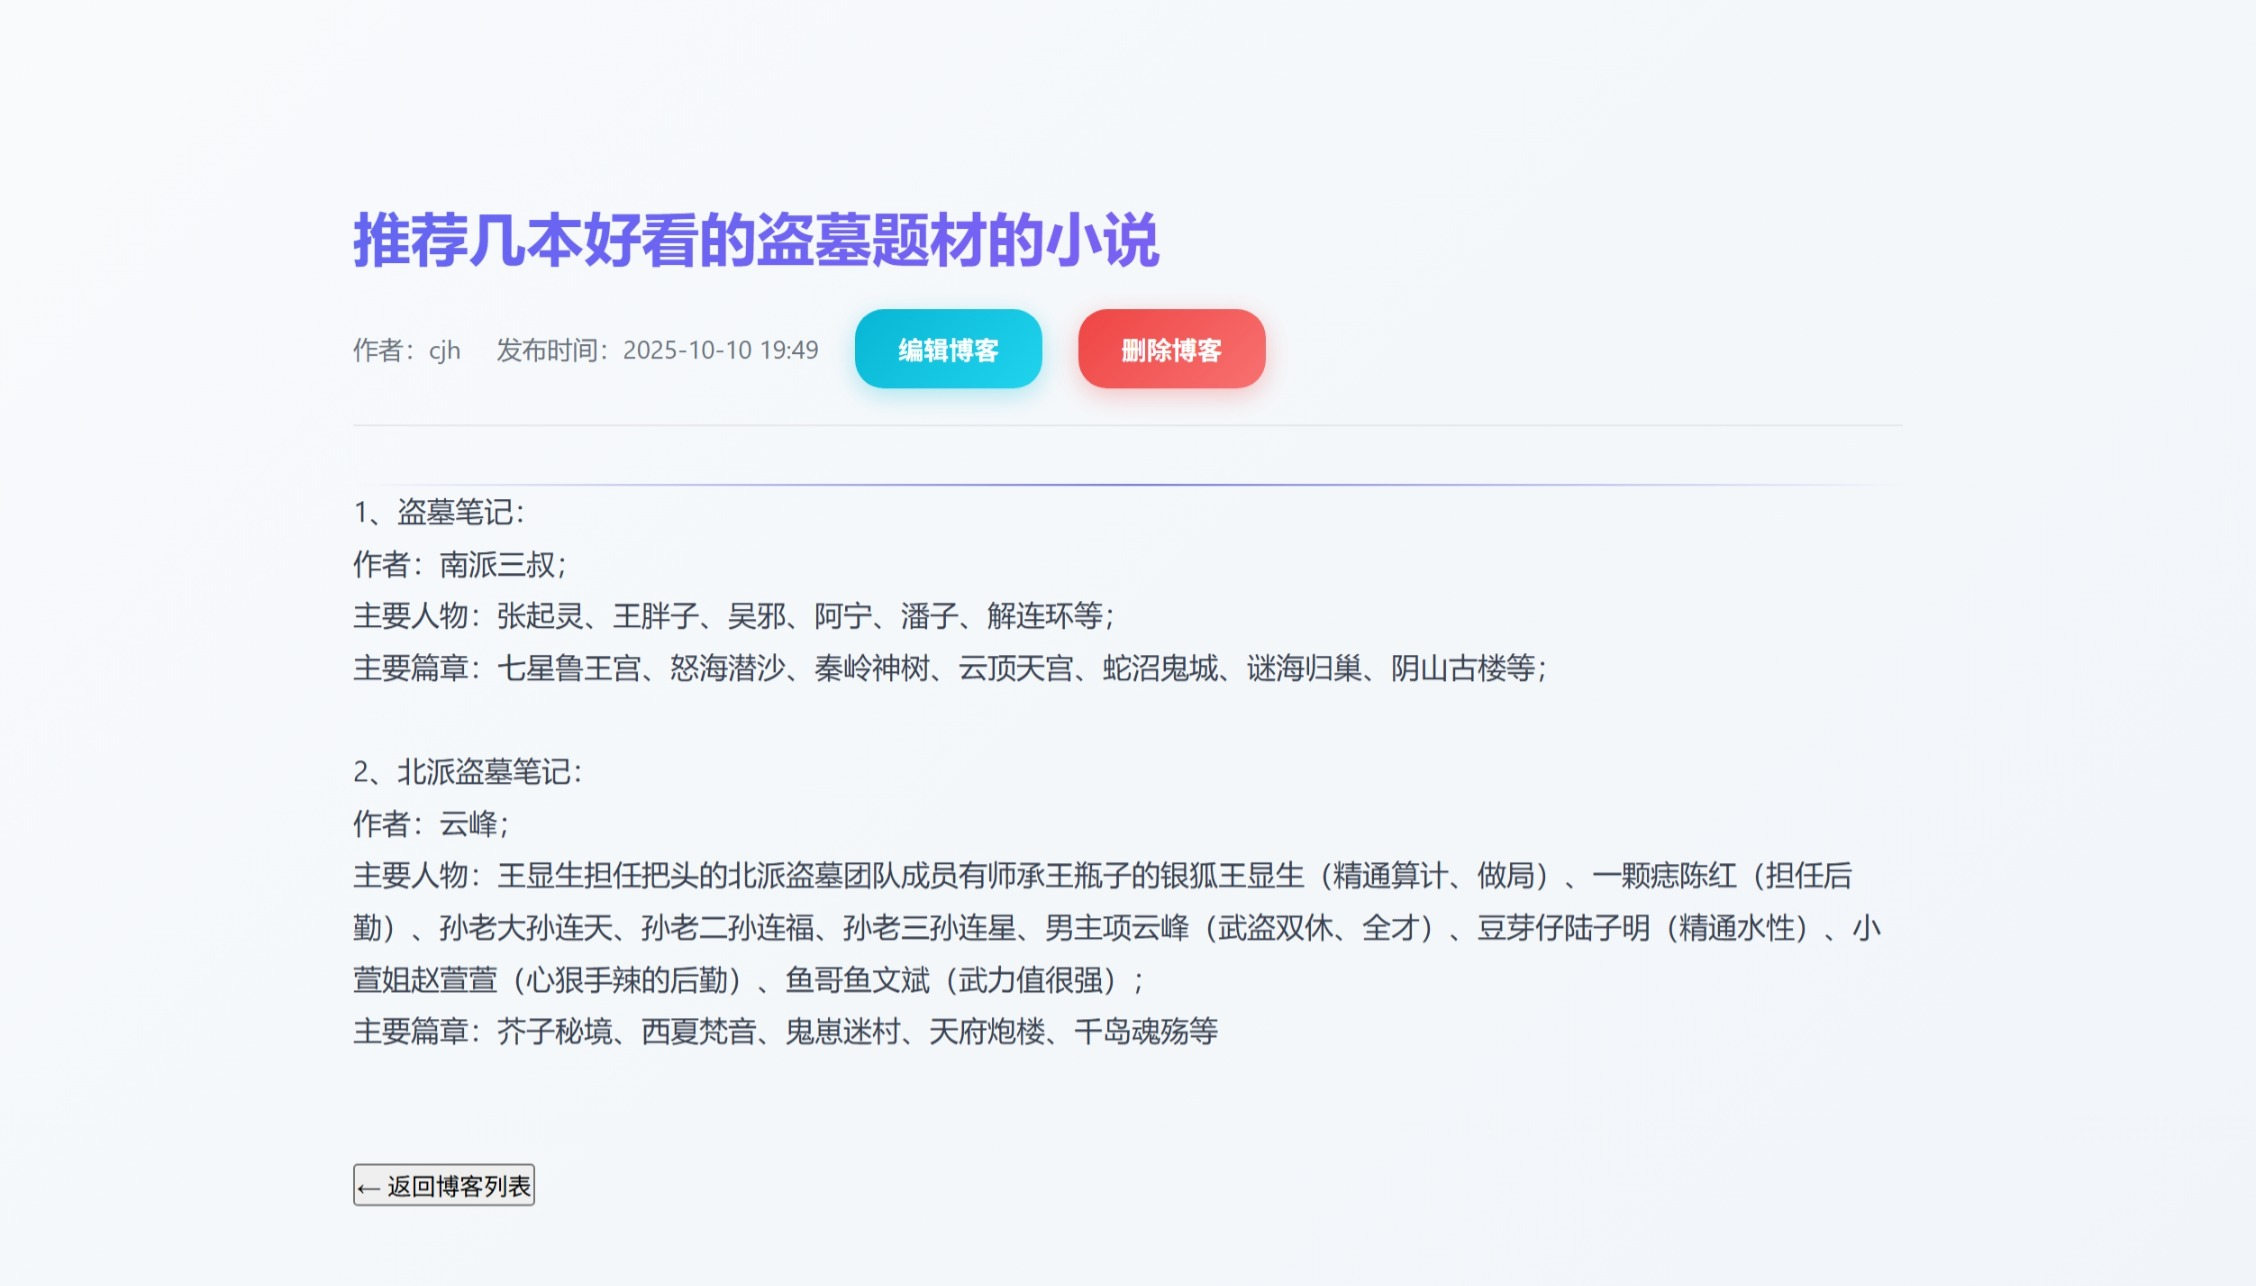
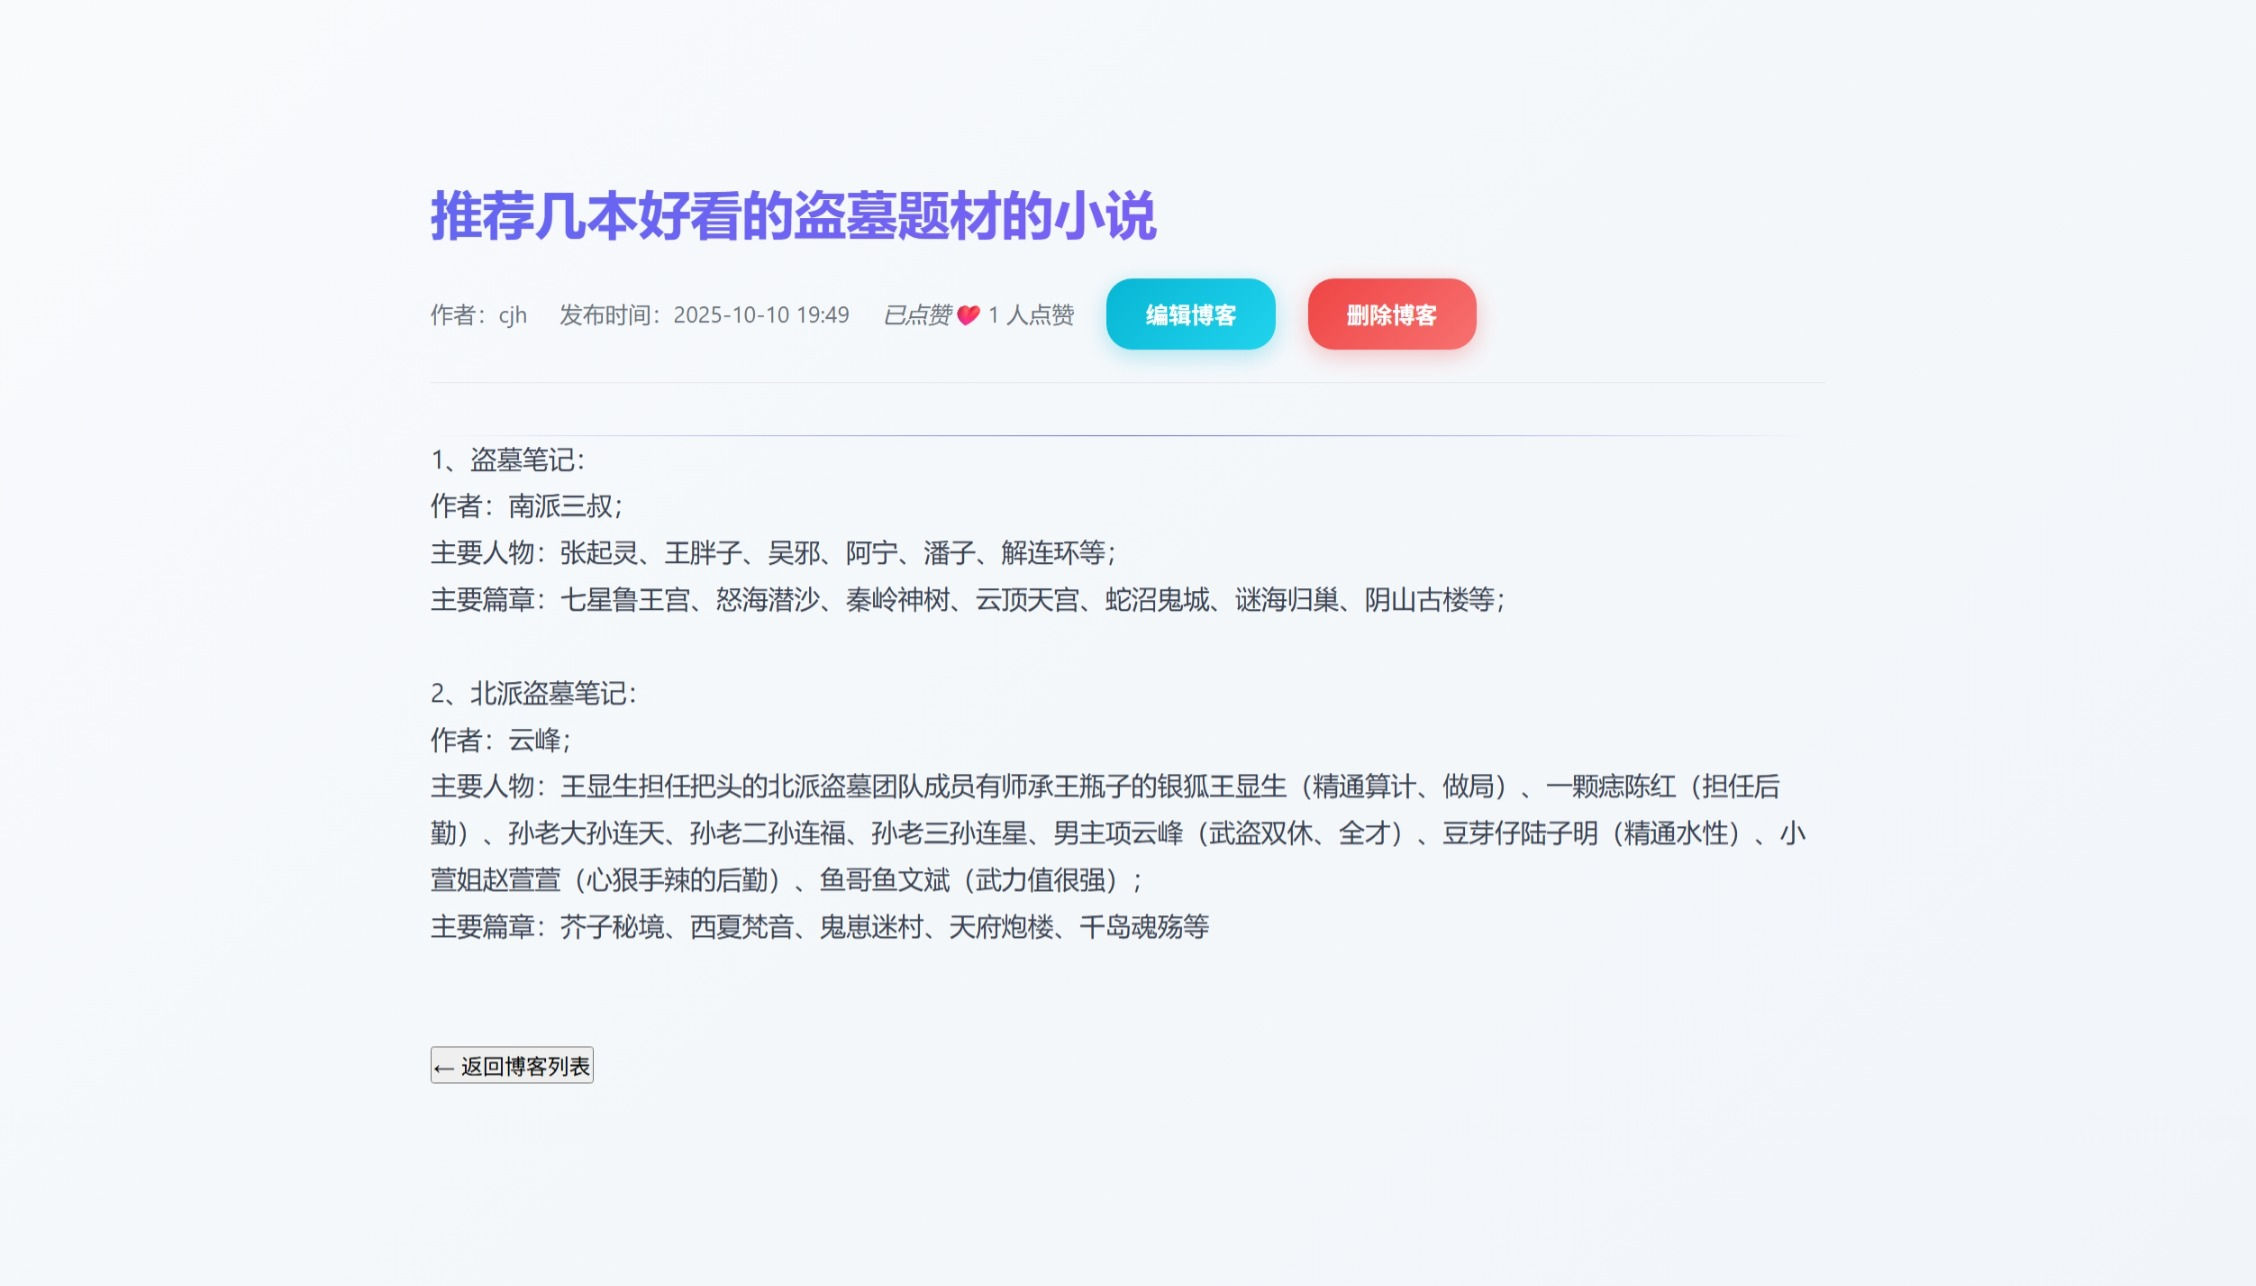
change some show pictures and md

Changed region(s): [[0.1551, 0.3421, 0.8378, 0.8398], [0.1551, 0.1244, 0.6516, 0.311], [0.1551, 0.902, 0.2482, 0.9331]]

diff --git a/show/Development_Log.md b/show/Development_Log.md
@@ -1,0 +1,129 @@
+## 开发日志
+
+### 第一阶段 --2025.9.22
+
+完成了后端基础服务：
+
+- 后端能连接 MongoDB 数据库，存储博客数据；
+- 提供了第一个可用接口 GET /api/blogs，能返回博客列表；
+- 项目结构模块化（路由、模型、配置分开），后续扩展方便（比如加 “创建博客”“删除博客” 接口）。
+
+### 第二阶段 --2025.9.22
+
+搭建前端基础框架：用 Vite 创建 Vue 3 项目，配置了路由，创建了 “博客列表页”，能正常启动并显示静态内容。
+
+### 第三阶段 --2025.9.22
+
+成功实现了 “前端对接后端接口” 的核心功能：
+
+- **封装 Axios**：统一处理请求基础地址、错误，后续接口调用更简洁；
+- **调用接口**：在组件中用异步函数获取后端 GET /api/blogs 数据，处理加载 / 错误状态；
+- **渲染数据**：把接口返回的 JSON 数据转成用户易懂的页面，支持日期格式化、内容截取、hover 动画等细节优化。
+
+### 第四阶段 --2025.9.22
+
+实现了创建新博客的功能
+
+- **后端**：新增 POST /api/blogs 接口，实现数据验证、存入数据库、返回响应的逻辑；
+- **前端**：创建 “创建博客” 页面，包含表单验证、加载状态、错误提示，并用 $router 实现页面跳转；
+- **用户体验**：添加 “创建博客” 按钮、动态页面标题、表单必填项标记，优化交互细节。
+
+### 第五阶段 --2025.9.23
+
+完成了 “博客详情页” 的核心功能：
+
+- **后端**：新增 GET /api/blogs/:id 接口，支持按 ID 查询单篇博客，完善错误处理；
+- **前端**：创建详情页组件，通过路由参数获取 ID 并调用接口，展示完整内容；
+- **用户体验**：实现标题点击跳转、详情页返回按钮、时间格式化（精确到分钟）、内容换行保留等细节。
+
+### 第六阶段 --2025.9.29
+
+完成了 “编辑博客” 功能：
+
+- **后端**：新增 PUT /api/blogs/:id 接口，支持按 ID 更新博客，启用数据验证；
+- **前端**：创建编辑页组件，复用表单结构，实现原数据回显和更新提交逻辑；
+- **用户体验**：在详情页添加编辑入口，更新后自动跳转回详情页，保持操作连贯性。
+
+### 第七阶段 --2025.9.29
+
+完成了 “删除博客” 功能：
+
+- **后端**：新增 DELETE /api/blogs/:id 接口，支持按 ID 删除博客，完善错误处理；
+- **前端**：在详情页添加删除按钮和确认弹窗，实现删除逻辑和加载状态管理；
+- **用户体验**：通过确认弹窗防止误操作，删除后自动跳转并提示，确保操作流程清晰。
+
+### 第八阶段 --2025.10.9
+
+完成了完整的用户认证系统：
+
+- **后端**：实现用户注册（密码加密）、登录（生成 Token）、权限中间件（验证 Token），并关联博客作者身份；
+- **前端**：开发登录 / 注册页面，存储 Token 并自动携带，根据登录状态控制路由访问和按钮显示；
+- **核心效果**：只有登录用户能创建博客，且只能编辑 / 删除自己的博客，未登录用户被限制访问敏感接口。
+
+### 第九阶段 --2025.10.10
+
+完成了分页功能的完整实现：
+
+- **后端**：改造列表接口，支持接收分页参数，通过 skip() 和 limit() 实现数据截取，返回总条数和总页数；
+- **前端**：添加分页组件，实现页码切换、状态控制（禁用 / 高亮），优化用户交互（滚动到顶部、分页信息展示）；
+- **核心价值**：解决大量数据加载慢的问题，提升页面性能和用户体验，是中后台系统和内容列表的必备功能。
+
+### 第十阶段 --2025.10.13
+
+通过这次修改，我们实现了：
+
+- **作者信息自动关联**：创建博客时不再需要手动输入作者，自动使用当前登录用户的用户名；
+- **数据安全性提升**：作者信息由后端从 Token 解析生成，避免前端伪造作者身份；
+- **查看个人发布的博客**：作者登陆后可以查看自己发布过的博客；
+- **逻辑简化**：减少用户输入步骤，提升操作体验。
+  该阶段开发遇到的问题：
+  问题：向后端个人主页 url：/api/blogs/my-blogs 发送请求时出错，页面提示博客 ID 格式错误；  
+  原因：显然这是接口/api/blogs/:id 的错误提示信息，说明在向/api/blogs/my-blogs 发送请求，其实是在向
+  /api/blogs/:id 发送请求，my-blogs 被当成了 id 参数，导致接口/api/blogs/my-blogs 不起效果，发现在 blogRoutes.js
+  文件，接口/api/blogs/my-blogs 的路由设置反而在/api/blogs/:id 之下，导致 api/blogs/my-blogs 一直没起效
+  解决：将动态路由/api/blogs/:id 放在静态路由 api/blogs/my-blogs 下就可以了；
+
+### 第十一阶段 --2025.10.13
+
+通过 “路由参数传递来源标识 + 动态渲染按钮” 的方式，实现了：
+
+- 不同入口进入详情页时，显示对应的返回按钮；
+- 保持了页面间跳转的连贯性，提升用户体验；
+- 兼容了无参数的访问场景，避免功能异常
+
+### 第十二阶段 --2025.10.15
+
+完成了**全局样式统一**和**视图重构**：
+
+- **全局样式**：定义了统一的配色、按钮、卡片、导航栏样式，确保所有页面风格一致，且具有 “华丽现代” 的视觉效果；
+- **视图重构**：基于全局样式重构模板和样式，解决了之前的视图单调的问题，同时优化了交互体验（如标题 hover 变色、分页按钮状态控制）；
+- **响应式适配**：确保在手机、电脑等不同屏幕上都能正常显示，提升多设备兼容性。
+
+### 第十三阶段 --2025.10.15
+
+完成了**富文本编辑器集成**和核心功能适配：
+
+- **编辑器基础集成**：从依赖安装、本地资源配置到组件封装，解决了 TinyMCE 6.x 强制 API Key、资源加载 404、变量未定义等系列报错，最终实现 5.10.7 版本稳定运行；
+- **核心编辑功能实现**：支持文字格式（加粗 / 斜体）、列表（有序 / 无序）、链接插入、图片本地预览，以及中文语言包适配，工具栏和交互逻辑符合博客编辑场景；
+- **前后端衔接适配**：完成编辑器内容与前端表单的双向绑定，确保编辑内容能同步到发布 / 编辑页面的提交数据中，为后续对接后端图片存储和数据库打好基础。
+
+### 第十四阶段 --2025.10.30 及 2025.11.3
+
+补充**富文本编辑器集成**上传图片的功能和修改其在主页面简介带有 html 标签的问题
+
+- 实现 “前端选择图片 → 后端存储 → 返回 URL→ 编辑器显示 → 发布后渲染” 的完整流程；
+- 图片存储在后端服务器，解决 Base64 格式导致的内容过大问题；
+- 与项目现有登录认证体系结合，确保只有登录用户可上传图片；
+- 兼容富文本编辑器的其他功能（文字格式、列表等），不影响原有编辑体验。
+  **耗时问题解决**：解决了编辑页面编辑区不显示原内容的问题，问题出在富文本区和内容渲染的先后顺序
+  关键思路：1. 精确的时机控制：使用 nextTick() 确保 DOM 更新完成 2. 双向保障机制：通过 key 变化强制重新渲染和通过 ref 暴露手动设置内容的方法 3. 事件驱动：在编辑器 init 事件中设置内容，确保编辑器就绪 4. 调试友好：添加日志帮助定位问题
+
+### 第十五阶段 --2025.11.5
+
+完成了博客点赞功能的前后端完整实现与优化：
+
+- **后端数据模型扩展**：在 Blog 模型中新增 likes（点赞总数）和 likedBy（点赞用户数组）字段，建立完善的点赞数据结构和防重复点赞机制；
+- **RESTful 接口设计**：新增 POST /api/blogs/:id/like（点赞）、POST /api/blogs/:id/unlike（取消点赞）、GET /api/blogs/:id/like-status（点赞状态查询）三个核心接口，集成 JWT 权限验证；
+- **前端交互体验优化**：在博客详情页集成点赞 UI 组件，采用心形图标状态切换（🤍 未点赞 / ❤ 已点赞），支持实时点赞数显示和防抖点击；
+- **状态同步机制**：实现乐观更新策略，先更新 UI 再发送请求，配合错误恢复机制，确保前后端数据一致性，解决手动刷新问题；
+- **用户权限控制**：集成登录状态验证，未登录用户点击点赞自动跳转登录页，作者不可点赞自己的博客，完善用户体验闭环。
